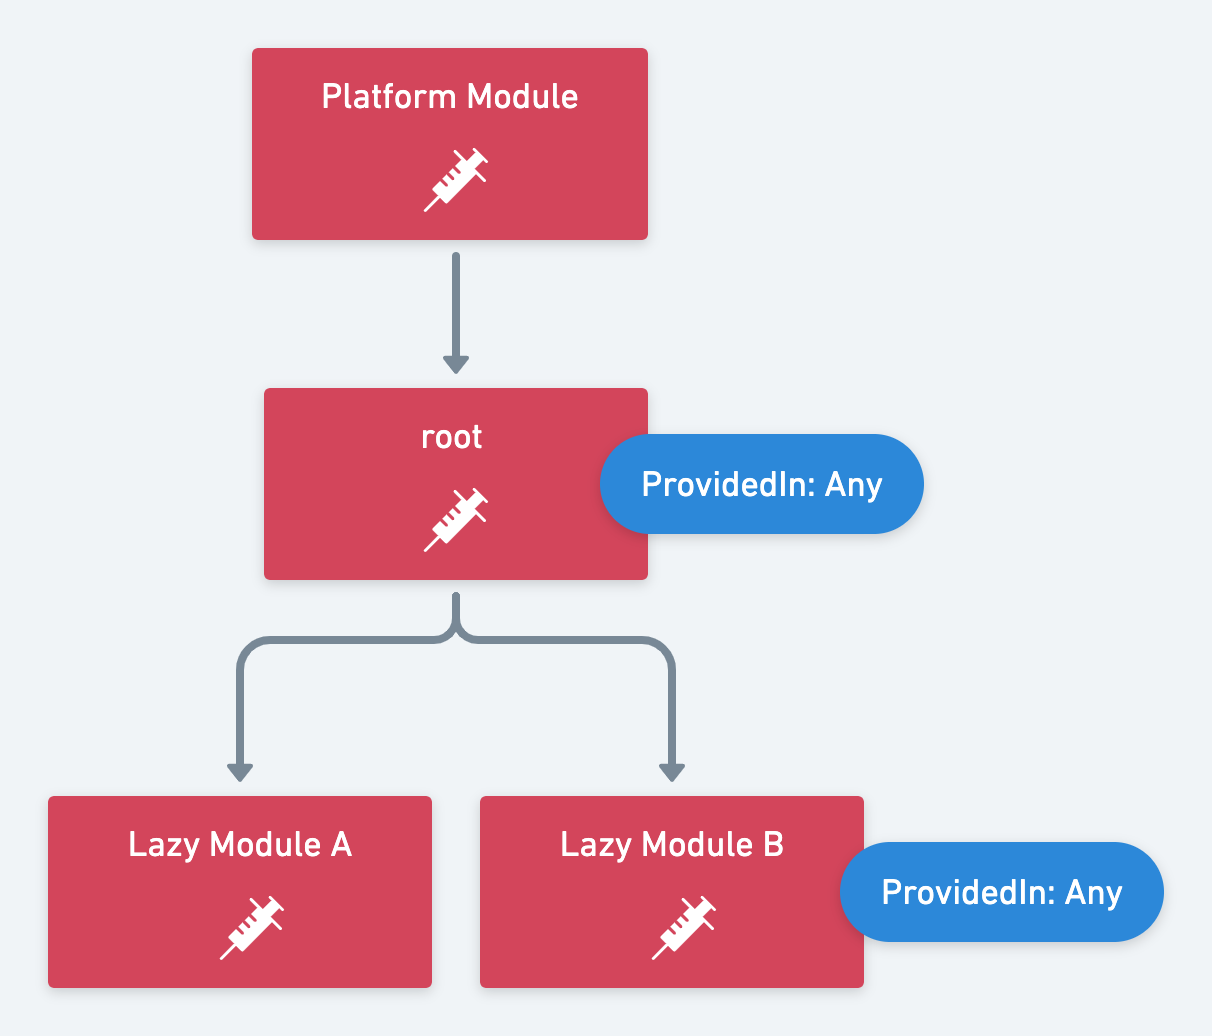
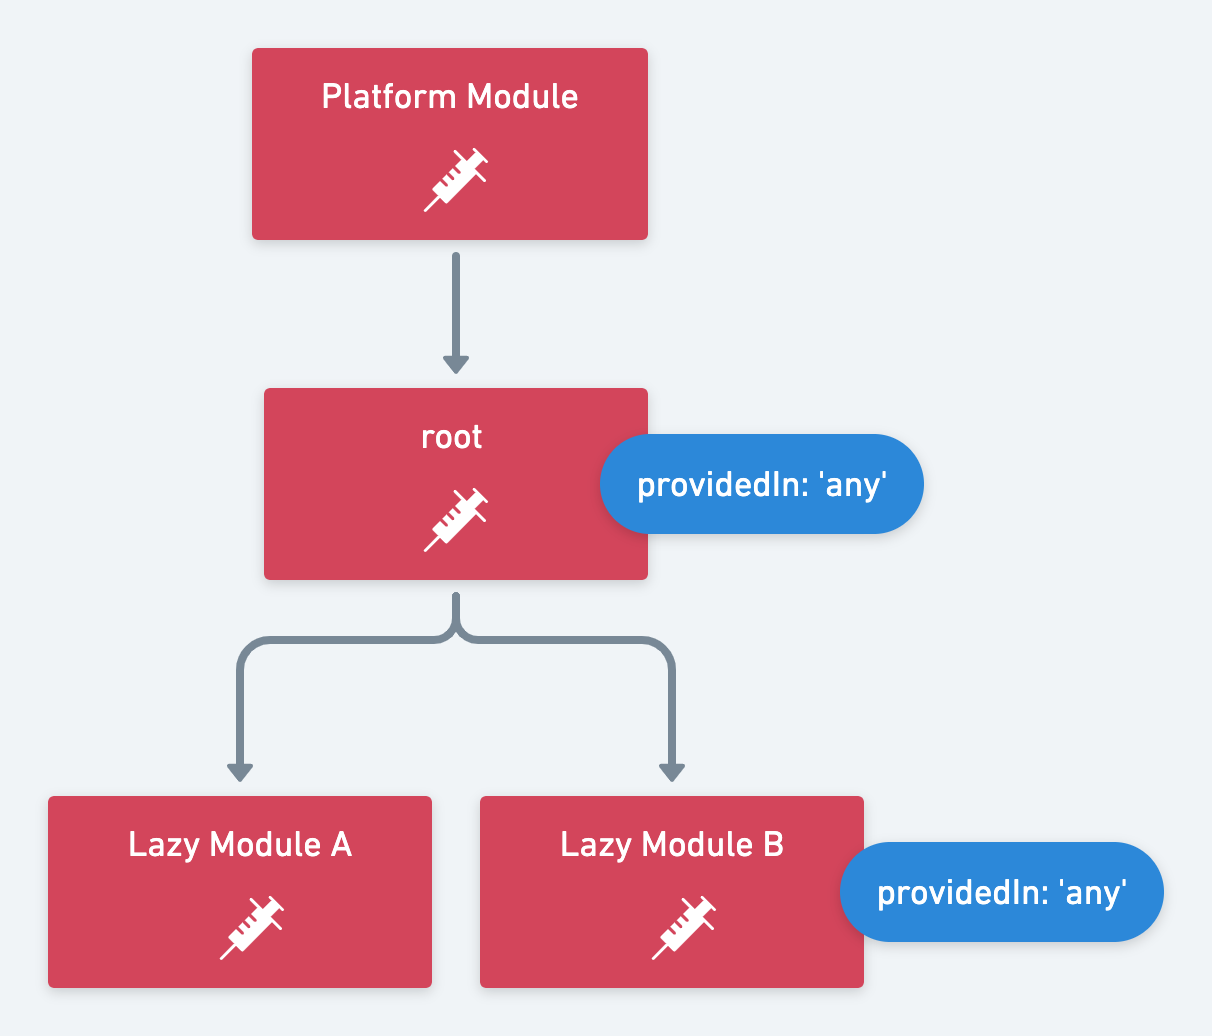
article(providedin): update images in publish

Changed region(s): [[0.7327, 0.834, 0.9158, 0.8958], [0.519, 0.4324, 0.7327, 0.4942]]

diff --git a/content/posts/2019-12-15-ng9-providedin-any/index.md b/content/posts/2019-12-15-ng9-providedin-any/index.md
@@ -4,7 +4,7 @@ author: Chris Kohler
 date: "2019-12-15"
 hero: "./images/hero.jpg"
 cover_image: "./images/hero.jpg"
-published: false
+published: true
 secret: false
 canonical_url: "https://christiankohler.net/improved-dependeny-injection-with-the-new-providedin-scopes-any-and-platform"
 masterid: 20191215
@@ -13,13 +13,13 @@ description: A detailed look into the new scopes for providedIn with Angular 9
 tags: angular, typescript, frontend,
 ---
 
-Have you looked at the changelog of Angular 9 and found the new functionality of providedIn and want to know what 'any' and 'platform' are for? In this article we look at the two new scopes of providedIn.
+Have you looked at the changelog of Angular 9 and found the new functionality of providedIn and want to know what **'any'** and **'platform'** are for? In this article we look at the two new scopes of providedIn.
 
 ![changelog](./images/changelog.jpg)
 
 # tl;dr
 
-'platform' and 'any' are two new ways to define where a service should be resolved.
+**'platform'** and **'any'** are two new ways to define where a service should be resolved.
 
 ```typescript
 @Injectable({
@@ -28,16 +28,16 @@ Have you looked at the changelog of Angular 9 and found the new functionality of
 export class MyService {}
 ```
 
-- 'platform' makes a service available between multiple apps or Angular Elements
-- 'any' creates isolated (not singleton) services for every child injector.
+- **'platform'** makes a service available between multiple apps or Angular Elements
+- **'any'** creates isolated (not singleton) services for every child injector.
 
 # Official Angular 9 documentation
 
 The [offical documentation](https://next.angular.io/api/core/Injectable) describes the new scopes as follows:
 
-- 'root' injector, which will be the application-level injector in most apps.
-- 'platform' injector, which would be the special singleton platform injector shared by all applications on the page.
-- 'any' injector, which would be the injector which receives the resolution. (Note this only works on NgModule Injectors and not on Element Injector)
+- **'root'** injector, which will be the application-level injector in most apps.
+- **'platform'** injector, which would be the special singleton platform injector shared by all applications on the page.
+- **'any'** injector, which would be the injector which receives the resolution. (Note this only works on NgModule Injectors and not on Element Injector)
 
 The documentation already gives us a good overview of the new scopes. In the next chapters I'll go into the individual scopes in more detail.
 
@@ -77,7 +77,7 @@ export class MyModule {}
 
 ** Angular 6+ **
 
-Angular 6 introduced tree-shakable providers with providedIn: 'root'.
+Angular 6 introduced tree-shakable providers with providedIn: **'root'**.
 
 ```typescript
 @Injectable({
@@ -98,14 +98,14 @@ If you want to know more about this, read the excellent [article](https://medium
 
 Now with Angular 9 we have two new ways to define providedIn scopes:
 
-- any
-- platform
+- **any**
+- **platform**
 
 Let's have a look at them.
 
 # ProvidedIn: root
 
-Every service defined with 'root' will be provided in the root injector and is a singleton for the whole application. Lazy modules will use the instance from root.
+Every service defined with **'root'** will be provided in the root injector and is a singleton for the whole application. Lazy modules will use the instance from root.
 
 ![providedinroot](./images/providedInroot.png)
 
@@ -113,11 +113,11 @@ Every service defined with 'root' will be provided in the root injector and is a
 
 # ProvidedIn: platform
 
-Every service defined with 'platform' will be provided in the platform injector and is a singleton for all applications. Lazy modules will use the instance from platform.
+Every service defined with **'platform'** will be provided in the platform injector and is a singleton for all applications. Lazy modules will use the instance from platform.
 
-The difference between 'root' and 'platform' is only noticeable when running multiple Angular application in the same window. Both make sure that only one singleton exists even for lazy loaded modules. But when running two applications in the same window, each application has it's own root injector but both share the platform injector.
+The difference between **'root'** and **'platform'** is only noticeable when running multiple Angular application in the same window. Both make sure that only one singleton exists even for lazy loaded modules. But when running two applications in the same window, each application has it's own root injector but both share the platform injector.
 
-This means that the best use case for providedIn: 'platform' is for sharing services over application boundaries. E.g. with Angular Elements.
+This means that the best use case for **providedIn: 'platform'** is for sharing services over application boundaries. E.g. with Angular Elements.
 
 ![providedinplatform](./images/providedInplatform.png)
 
@@ -125,7 +125,7 @@ This means that the best use case for providedIn: 'platform' is for sharing serv
 
 # ProvidedIn: any
 
-Every service defined with 'any' will be provided in every module it is used. That means there might be multiple instances of the same service.
+Every service defined with **'any'** will be provided in every module it is used. That means there might be multiple instances of the same service. That means that every lazy loaded module has it's own instance of the service. All eagerly loaded modules share one instance provided by the root module injector.
 
 In the following example is the service used twice. Once within an eagerly loaded module (provided by root) and once in Lazy Module B (provided by its child injector).
 
@@ -135,11 +135,11 @@ What's really cool with that approach is, that you can make sure that a child in
 
 # Summary
 
-'Root' will still be the default for most services. It makes it very convenient to create tree-shakable services which are singleton within an application.
+**'Root'** will still be the default for most services. It makes it very convenient to create tree-shakable services which are singleton within an application.
 
-'Platform' is most likely used for creating shared services for Angular Elements. If you know another use case, please let me know an create a [PR on this article](https://github.com/ChristianKohler/Homepage/blob/master/content/posts/2019-12-15-ng9-providedin-any/index.md).
+**'Platform'** is most likely used for creating shared services for Angular Elements. If you know another use case, please let me know an create a [PR on this article](https://github.com/ChristianKohler/Homepage/blob/master/content/posts/2019-12-15-ng9-providedin-any/index.md).
 
-'Any' is very helpful to make sure a service is a singleton within module boundaries. It's a robust alternative to 'root' to make sure the individual modules don't have a side effect on each other.
+**'Any'** is very helpful to make sure a service is a singleton within module boundaries. It's a robust alternative to **'root'** to make sure the individual modules don't have a side effect on each other.
 
 All in all a very welcome feature 🥳
 
